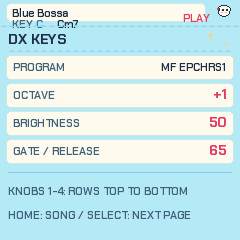
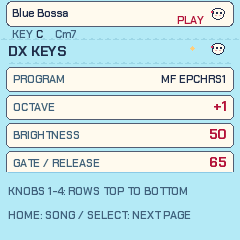
Answer the design review: real edges, a split accent, a mascot on the working screens
Measured against the review, Momo, on cream:
- small type carried the warm accent at 3.9:1. A theme now has two accents: acc stays for
  the 21 px chord, acc_t (#B0123C, 6.7:1 on card, 5.4:1 on the ground) takes every 8 px
  label -- PLAY, EVOLVING, arrangement values, the key and movement pills.
- a card's cream on a pale ground is 1.3:1 and its old rule was 1.26:1, so there was no edge
  at all. The ring is now mix(panel, ink, 12) at 4.8:1: a sticker edge, and the radius does
  the softening -- 14 px on the chord card, 12 px on the others.
- the header card grows to 26 px and the key strip moves onto its own row below it, so
  nothing crosses an edge; the mascot keeps an 8 px right inset.
- the Songbook card drops the duplicated song name (it is in the header), gives the space to
  the mascot at 32 x 28 with a two-line slate bubble, and the chord becomes the page's one
  large mark.
- the pattern strip is nine-pixel beads: cream fill, a 1 px slate ring, the playing bar
  filled in the small accent, so the sixteen-bar structure is visible.
- the boot card: a two-pixel ink outline on the sun, the mascot at 3x standing on the
  horizon, the pale band and the white bar gone.
- the parameter pages get the mascot beside the title and a warm mark on the row the last
  knob touched, so the identity is not only on the boot screen.

Changed region(s): [[0.0, 0.0, 0.9917, 0.7292]]

diff --git a/firmware/src/app/ui.c b/firmware/src/app/ui.c
@@ -453,7 +453,8 @@ static const uint8_t BLACK_KEY[11] = {1, 3, 5, 8, 10, 13, 15, 17, 20, 22, 25};
  * shades (the pad and the chord; the acid; the drone), the drums' colour, and a colour for the sections
  * and freeze. Each layer has a dark tint for shapes at rest. */
 typedef struct {
-    uint16_t bg, panel, line, dim, text, acc, pad, pad_t, acid, acid_t, bass, bass_t, pulse, pulse_t, frost, pluck;
+    uint16_t bg, panel, line, dim, text, acc, pad, pad_t, acid, acid_t, bass, bass_t, pulse, pulse_t, frost, pluck,
+        acc_t;   /* the accent as small text: dark enough for an 8 px glyph on cream (the warm acc is large-text only) */
 } theme_t;
 /* NAIWAN 91's six looks (Global > Theme). One family, not six moods: each is a soft ground, cream
  * surfaces, an ink that clears 7:1 against the ground, and a single warm "now" colour for the playhead
@@ -462,27 +463,27 @@ static const theme_t THEMES[EN_NTHEME] = {
     /* Momo (default): the coast at noon: a sky ground, cream cards, ink navy, strawberry for "now" */
     {RGB(176, 232, 246), RGB(255, 249, 236), RGB(140, 203, 224), RGB(64, 96, 120), RGB(38, 44, 72), RGB(226, 58, 96),
      RGB(232, 106, 138), RGB(146, 50, 76), RGB(32, 158, 134), RGB(18, 96, 82), RGB(198, 122, 36), RGB(120, 70, 18),
-     RGB(255, 206, 120), RGB(170, 126, 52), RGB(34, 124, 190), RGB(96, 204, 224)},
+     RGB(255, 206, 120), RGB(170, 126, 52), RGB(34, 124, 190), RGB(96, 204, 224), RGB(176, 18, 60)},
     /* Sora: the same coast one hour later: a deeper sky, the same cream and ink */
     {RGB(132, 196, 236), RGB(255, 252, 244), RGB(92, 158, 196), RGB(58, 92, 120), RGB(28, 48, 82), RGB(226, 62, 96),
      RGB(58, 120, 196), RGB(28, 72, 124), RGB(26, 150, 140), RGB(14, 92, 86), RGB(206, 110, 48), RGB(126, 62, 22),
-     RGB(255, 214, 140), RGB(176, 140, 64), RGB(20, 104, 176), RGB(72, 186, 216)},
+     RGB(255, 214, 140), RGB(176, 140, 64), RGB(20, 104, 176), RGB(72, 186, 216), RGB(162, 15, 54)},
     /* Matcha: a garden bench: pale green ground, cream cards, the same strawberry */
     {RGB(206, 232, 206), RGB(255, 252, 240), RGB(150, 196, 158), RGB(74, 104, 80), RGB(44, 58, 46), RGB(216, 72, 96),
      RGB(214, 110, 128), RGB(134, 56, 70), RGB(48, 150, 96), RGB(26, 92, 58), RGB(196, 132, 48), RGB(118, 76, 24),
-     RGB(248, 226, 150), RGB(168, 148, 78), RGB(44, 140, 132), RGB(120, 204, 170)},
+     RGB(248, 226, 150), RGB(168, 148, 78), RGB(44, 140, 132), RGB(120, 204, 170), RGB(168, 16, 56)},
     /* Yuzu: late sun: a butter ground, cream cards, deep plum ink */
     {RGB(250, 226, 158), RGB(255, 251, 240), RGB(222, 190, 120), RGB(110, 92, 60), RGB(56, 46, 40), RGB(214, 58, 86),
      RGB(226, 104, 96), RGB(140, 58, 52), RGB(40, 150, 130), RGB(20, 92, 78), RGB(188, 116, 32), RGB(110, 64, 14),
-     RGB(255, 196, 96), RGB(172, 124, 44), RGB(40, 120, 180), RGB(96, 196, 210)},
+     RGB(255, 196, 96), RGB(172, 124, 44), RGB(40, 120, 180), RGB(96, 196, 210), RGB(168, 16, 48)},
     /* Sakura: a blossom in the pocket: blush ground, cream cards, plum ink */
     {RGB(250, 214, 224), RGB(255, 250, 244), RGB(230, 176, 196), RGB(120, 84, 100), RGB(68, 40, 58), RGB(208, 52, 104),
      RGB(224, 96, 132), RGB(138, 48, 72), RGB(34, 150, 130), RGB(16, 90, 78), RGB(196, 120, 52), RGB(118, 68, 26),
-     RGB(255, 212, 150), RGB(170, 132, 72), RGB(46, 124, 180), RGB(110, 200, 214)},
+     RGB(255, 212, 150), RGB(170, 132, 72), RGB(46, 124, 180), RGB(110, 200, 214), RGB(163, 16, 88)},
     /* Yoru: a night beach: the deep ground (the horizon behind the sigil, the mascot in lamplight) */
     {RGB(30, 32, 64), RGB(54, 54, 102), RGB(78, 80, 132), RGB(150, 152, 196), RGB(255, 246, 236), RGB(255, 142, 172),
      RGB(176, 150, 255), RGB(86, 68, 150), RGB(128, 232, 190), RGB(46, 120, 96), RGB(255, 178, 110), RGB(150, 94, 44),
-     RGB(255, 214, 132), RGB(156, 126, 64), RGB(140, 210, 255), RGB(110, 226, 232)},
+     RGB(255, 214, 132), RGB(156, 126, 64), RGB(140, 210, 255), RGB(110, 226, 232), RGB(255, 179, 199)},
 };
 static const theme_t *th = &THEMES[0];
 #define LOOK_SYNTH (th == &THEMES[5])           /* Yoru (the night look) draws its own horizon behind the sigil and lights the mascot */
@@ -492,6 +493,7 @@ static const theme_t *th = &THEMES[0];
 #define K_DIM (th->dim)
 #define K_TEXT (th->text)
 #define K_ACC (th->acc)
+#define K_ACC_TXT (th->acc_t)           /* the same "now", dark enough for small type */
 #define K_PAD (th->pad)
 #define K_PAD_T (th->pad_t)
 #define K_ACID (th->acid)
@@ -4738,9 +4740,9 @@ static void input(void)
 
 /* ------------------------------------------------------------- screen --- */
 /* three bands: the header (28 px), the main area (144), the knobs (68) */
-#define HDR_H 28
-#define MAIN_Y 28
-#define MAIN_H 144
+#define HDR_H 40
+#define MAIN_Y 40
+#define MAIN_H 132
 #define KNB_Y 172
 #define KNB_H 68
 
@@ -4846,17 +4848,19 @@ static uint16_t mix(uint16_t a, uint16_t b, int t)   /* t 0..16: a -> b */
     return (uint16_t)(r << 11 | g << 5 | bl);
 }
 static int q16(float x) { return x <= 0.0f ? 0 : x >= 1.0f ? 16 : (int)(x * 16.0f + 0.5f); }
-/* a card: the panel's cream, one pixel of rule round it. A cream sheet on a pale ground is 1.3:1,
- * so the ring is what makes a card read as a card at arm's length. */
+/* a card: the panel's cream, one pixel of rule round it. Cream on a pale ground is 1.3:1, so the ring
+ * carries the edge (5.5:1 against the ground); at a 12-14 px radius it reads as a sticker, which is
+ * the shape doing the softness instead of a washed-out fill. */
 static void cv_card(int32_t x, int32_t y, int32_t w, int32_t h, int32_t r)
 {
-    cv_round(x, y, w, h, r, mix(K_PANEL, K_LINE, 6));
+    cv_round(x, y, w, h, r, mix(K_PANEL, K_TEXT, 12));
     cv_round(x + 1, y + 1, w - 2, h - 2, r > 1 ? r - 1 : 1, K_PANEL);
 }
 
 static const char *const MASCOT[23];            /* the visualizer's dancer (viz.c) */
 static uint16_t mascot_color(char ch);
 static void draw_nami(int32_t x, int32_t y);
+static void draw_nami_scale(int32_t x, int32_t y, int32_t sc);
 static void draw_sparkle(int32_t x, int32_t y, int s, uint16_t c);
 static void cv_scallop(int32_t x, int32_t y, int32_t w, uint16_t c);
 /* the mascot, one pixel a pixel, on a spring like the big dancer's (viz.c), smaller: a hop on the kick (the head lags, the coils spread
@@ -4952,24 +4956,33 @@ static void draw_header(void)
         if(jh==ui.sig[0])return;
         ui.sig[0]=jh;
         cv_begin(240,HDR_H,K_BG);
-        cv_card(6, 3, 200, 19, 5);                            /* the song, and what it is doing: one cream card */
+        cv_card(6, 1, 228, 26, 6);                            /* the song, and what it is doing */
         cv_text(12,6,&FONT_XS,jam_ui_title(),K_TEXT);
-        cv_text(210-text_w(&FONT_XS,JV(playing,en_playing)?"PLAY":"STOP"),11,&FONT_XS,JV(playing,en_playing)?"PLAY":"STOP",K_ACC);
-        int x=cv_text(12,17,&FONT_XS,"KEY ",K_DIM);x=cv_text(x,17,&FONT_XS,EN_NOTE_NAME[state.key],th->frost);
-        cv_text(x+14,17,&FONT_XS,chord,K_TEXT);
-        cv_scallop(0,25,240,mix(K_BG,K_LINE,9));
-        draw_nami(216,4);cv_blit(0,0);return;
+        {   /* the state, right-aligned in the card and clear of the mascot's eight-pixel inset */
+            const char *st=JV(playing,en_playing)?"PLAY":"STOP";
+            cv_text(204-text_w(&FONT_XS,st),13,&FONT_XS,st,K_ACC_TXT);
+        }
+        draw_nami(210,7);
+        {   /* the key strip: its own row, under the card's edge */
+            int32_t x=cv_text(12,27,&FONT_XS,"KEY ",K_DIM);
+            x=cv_text(x,27,&FONT_XS,EN_NOTE_NAME[state.key],K_TEXT);
+            cv_text(x+12,27,&FONT_XS,chord,K_DIM);
+        }
+        cv_scallop(0,38,240,mix(K_BG,K_LINE,9));
+        cv_blit(0,0);return;
     }
     if(ui.view==V_JAMHELP && !ui.fx_menu && !msg) {
         uint32_t jh=hash(0x4a414d34u,JV(revision,en_jam_revision) | JV(playing,en_playing)<<24);
         if(jh==ui.sig[0])return;
         ui.sig[0]=jh;
         cv_begin(240,HDR_H,K_BG);
-        cv_card(6,3,200,19,5);
-        cv_text(12,5,&FONT_B,jam_ui_title(),K_TEXT);
-        cv_text(210-text_w(&FONT_XS,JV(playing,en_playing)?"PLAY":"STOP"),11,&FONT_XS,JV(playing,en_playing)?"PLAY":"STOP",K_ACC);
-        cv_scallop(0,25,240,mix(K_BG,K_LINE,9));
-        draw_nami(216,4);cv_blit(0,0);return;
+        cv_card(6,1,228,26,6);
+        cv_text(12,6,&FONT_B,jam_ui_title(),K_TEXT);
+        {   const char *st=JV(playing,en_playing)?"PLAY":"STOP";
+            cv_text(204-text_w(&FONT_XS,st),15,&FONT_XS,st,K_ACC_TXT); }
+        draw_nami(210,7);
+        cv_scallop(0,38,240,mix(K_BG,K_LINE,9));
+        cv_blit(0,0);return;
     }
     mascot_step();
     if (ui.frame % 2u)                          /* (the spring moves every frame; the header is redrawn thirty times a second) */
@@ -7086,8 +7099,8 @@ static void draw_main(void)
         ui.sig[1]=h;
         cv_begin(240,MAIN_H,K_BG);
         cv_text(8,3,&FONT_B,row==3 && jam_ui_version()==3?"SYNTH JAM":titles[row],K_TEXT);
-        draw_sparkle(210,7,2,K_PULSE);                            /* the motif's other half: a sparkle by the title */
-        draw_sparkle(226,15,1,mix(K_BG,K_PULSE,9));
+        draw_sparkle(192,8,2,K_PULSE);                            /* a sparkle by the title */
+        draw_nami(210,2);                                         /* and the mascot, so the identity is here too */
         cv_scallop(8,22,224,mix(K_BG,K_LINE,9));
         for(k=0;k<4;k++) {
             int field=jam_ui_row_field(row,k,fields[row][k]),value=jam_ui_option(field);
@@ -7097,8 +7110,10 @@ static void draw_main(void)
             if(field==JAM_MOVE)value=state.movement;
                 if(field==JAM_ENERGY)value=state.energy;
             cv_card(6,y,228,25,5);                                /* a row, a cream pill */
+            if (plat_ms() < ui.touch_until && (int)k == (int)ui.touched)
+                cv_round(2, y + 4, 3, 17, 1, K_ACC_TXT);          /* the row the last knob touched */
             cv_text(13,y+5,&FONT_XS,field==JAM_SYNTH?"MODE":field==JAM_SPACE?"SPACE":field==JAM_KEYS_PROGRAM || field==JAM_BASS_PROGRAM?"PROGRAM":field==JAM_KEYS_OCTAVE || field==JAM_BASS_OCTAVE?"OCTAVE":names[row][k],K_DIM);
-            if(field==JAM_SYNTH)cv_text(226-text_w(&FONT_B,value?"SYNTH":"BAND"),y+4,&FONT_B,value?"SYNTH":"BAND",K_ACC);
+            if(field==JAM_SYNTH)cv_text(226-text_w(&FONT_B,value?"SYNTH":"BAND"),y+4,&FONT_B,value?"SYNTH":"BAND",K_ACC_TXT);
             else if(field==JAM_FORM)cv_text(226-text_w(&FONT_XS,jam_ui_form()),y+5,&FONT_XS,jam_ui_form(),K_TEXT);
             else if(field==JAM_KEYS_PROGRAM || field==JAM_BASS_PROGRAM) {
                 jam_ui_voice_name(field,text);
@@ -7108,8 +7123,8 @@ static void draw_main(void)
             } else if(field==JAM_KEYS_OCTAVE || field==JAM_BASS_OCTAVE) {
                 if(value)text[0]=value<0?'-':'+';
                 itoa_u((unsigned)(value<0?-value:value),text+(value!=0));
-                cv_text(226-text_w(&FONT_B,text),y+3,&FONT_B,text,K_ACC);
-            } else {itoa_u((unsigned)value,text);cv_text(226-text_w(&FONT_B,text),y+3,&FONT_B,text,K_ACC);}
+                cv_text(226-text_w(&FONT_B,text),y+3,&FONT_B,text,K_ACC_TXT);
+            } else {itoa_u((unsigned)value,text);cv_text(226-text_w(&FONT_B,text),y+3,&FONT_B,text,K_ACC_TXT);}
         }
         cv_blit(0,MAIN_Y);return;
     }
@@ -7124,38 +7139,44 @@ static void draw_main(void)
         ui.sig[1]=h;
         jam_ui_name(0,a); jam_ui_name(1,b); root[0]=a[0];root[1]=0;
         cv_begin(240,MAIN_H,K_BG);
-        cv_card(8,2,224,60,6);                                /* the song's card: a cream rounded sheet */
-        cv_text(16,8,&FONT_XS,jam_ui_title(),K_DIM);
-        cv_text(16,18,&FONT_L,root,K_ACC);
-        cv_text(44,26,&FONT_M,a+1,K_TEXT);
-        cv_round(146,18,80,16,5,mix(K_BG,K_LINE,8));          /* "next", a quieter chip of its own */
-        cv_text(152,21,&FONT_XS,"NEXT",K_DIM); cv_text(152,30,&FONT_XS,b,K_PAD);
+        cv_card(8,2,224,60,14);                               /* the song's card: a deep-rounded cream sheet */
+        draw_nami_scale(16,12,2);                             /* the mascot, 32 x 28 */
+        cv_round(54,6,74,34,8,mix(K_PANEL,K_LINE,7));         /* her bubble, two lines of slate */
+        cv_round(55,7,72,32,7,K_PANEL);
+        cv_text(62,10,&FONT_XS,role[JV(section,en_jam_section)%4],K_DIM);
+        cv_text(62,23,&FONT_XS,s.hold?"HELD":"EVOLVING",K_ACC_TXT);
+        cv_text(228-text_w(&FONT_L,a),10,&FONT_L,a,K_ACC);    /* the chord, the page's one large mark */
         if(JV(playing,en_playing)) {                          /* a sparkle while the band plays */
-            const int sx = 198, sy = 46 - (int)(2.0f * fm_fabsf(fm_sinf((float)(plat_ms() % 1600u) * 0.0039f)) * 2.0f);
-            draw_sparkle(sx, sy, 2, K_PULSE);
-            draw_sparkle(178, 12, 1, mix(K_PANEL, K_PULSE, 9));
+            draw_sparkle(200, 50, 2, K_PULSE);
+            draw_sparkle(14, 56, 1, mix(K_PANEL, K_PULSE, 9));
         }
-        {   /* the bar: rounded segments, the one playing in the accent */
+        {   /* under the card: what comes next, and where the bar is */
+            int32_t x=cv_text(12,66,&FONT_XS,"NEXT",K_DIM);
+            cv_text(x+8,66,&FONT_XS,b,K_DIM);
+            {   /* "3 / 8" */
+                char bl[8]; int q=0;
+                itoa_u(JV(bar,en_jam_bar)+1,bl); while(bl[q]) q++;
+                bl[q++]=' '; bl[q++]='/'; bl[q++]=' ';
+                itoa_u(JV(length,en_jam_length),bl+q);
+                cv_text(228-text_w(&FONT_XS,bl),66,&FONT_XS,bl,K_DIM);
+            }
+        }
+        {   /* the pattern: nine-pixel beads, ringed so the structure reads, the one playing filled */
             const int n = JV(length,en_jam_length) ? JV(length,en_jam_length) : 1;
             const int w = 224 / n;
-            for(k=0;k<(unsigned)n;k++) {                              /* cream pill, the bar's fill inset in it */
-                const uint16_t sc = k==JV(bar,en_jam_bar)?K_ACC:k<JV(bar,en_jam_bar)?K_FROST:mix(K_BG,K_LINE,9);
-                cv_round(8+(int)k*w, 70, w-3, 7, 3, K_PANEL);
-                cv_round(9+(int)k*w, 72, w-5, 3, 2, sc);
+            for(k=0;k<(unsigned)n;k++) {
+                cv_round(8+(int)k*w, 78, w-3, 9, 3, K_DIM);
+                cv_round(9+(int)k*w, 79, w-5, 7, 2, k==JV(bar,en_jam_bar)?K_ACC_TXT:K_PANEL);
             }
-            cv_scallop(8, 79, 224, mix(K_BG, K_LINE, 7));
         }
-        itoa_u(JV(bar,en_jam_bar)+1,t); cv_text(8,86,&FONT_XS,t,K_TEXT);
-        cv_text(32,86,&FONT_XS,role[JV(section,en_jam_section)%4],K_DIM);
-        cv_text(160,86,&FONT_XS,s.hold?"HELD":"EVOLVING",K_ACC);
         if(JV(pending,en_jam_pending) || JV(busy,en_jam_busy()) || JV(load,en_jam_load)>=0) {
-            cv_text(8,105,&FONT_XS,(JV(busy,en_jam_busy()) || JV(load,en_jam_load)>=0)?jam_ui_pending_title():jam_ui_form(),K_ACC);
-            itoa_u(JV(length,en_jam_length)-JV(bar,en_jam_bar),t); cv_text(8,122,&FONT_XS,t,K_ACC);
-            cv_text(29,122,&FONT_XS,"BARS TO CHANGE",K_DIM);
+            cv_text(12,94,&FONT_XS,(JV(busy,en_jam_busy()) || JV(load,en_jam_load)>=0)?jam_ui_pending_title():jam_ui_form(),K_ACC_TXT);
+            itoa_u(JV(length,en_jam_length)-JV(bar,en_jam_bar),t); cv_text(12,112,&FONT_XS,t,K_ACC_TXT);
+            cv_text(34,112,&FONT_XS,"BARS TO CHANGE",K_DIM);
         } else {
-            cv_text(8,105,&FONT_XS,"PRESETS: SONG / SEL: DETAILS",K_DIM);
-            itoa_u(s.energy,t);cv_text(8,122,&FONT_XS,"ENERGY",K_DIM);cv_text(61,122,&FONT_XS,t,K_ACC);
-            cv_text(105,122,&FONT_XS,"SAVE WHEN STOPPED",K_DIM);
+            cv_text(12,94,&FONT_XS,"PRESETS: SONG / SEL: DETAILS",K_DIM);
+            itoa_u(s.energy,t);cv_text(12,112,&FONT_XS,"ENERGY",K_DIM);cv_text(70,112,&FONT_XS,t,K_ACC_TXT);
+            cv_text(102,112,&FONT_XS,"SAVE WHEN STOPPED",K_DIM);
         }
         cv_blit(0,MAIN_Y); return;
     }
@@ -7393,10 +7414,10 @@ static void draw_knobs(void)
             int x=8+(int)k*59;
             cv_card(x,20,54,42,6);                            /* a cream pill a knob */
             cv_text(x+7,25,&FONT_XS,names[k],K_DIM);
-            if(k==0) {cv_text(x+7,40,&FONT_B,EN_NOTE_NAME[s.key],K_ACC);cv_text(x+7+text_w(&FONT_B,EN_NOTE_NAME[s.key]),43,&FONT_XS,jam_ui_version()!=3 && s.minor?"m":"",K_ACC);}
+            if(k==0) {cv_text(x+7,40,&FONT_B,EN_NOTE_NAME[s.key],K_ACC_TXT);cv_text(x+7+text_w(&FONT_B,EN_NOTE_NAME[s.key]),43,&FONT_XS,jam_ui_version()!=3 && s.minor?"m":"",K_ACC_TXT);}
             if(k==1) {itoa_u((unsigned)proj.par[P_TEMPO],t);cv_text(x+7,40,&FONT_B,t,K_TEXT);}
             if(k==2) {itoa_u(s.bars,t);cv_text(x+7,40,&FONT_B,t,K_TEXT);}
-            if(k==3) cv_text(x+7,44,&FONT_XS,jam_ui_version()==3?jp_chord_movement(s.movement):movement[s.movement],K_ACC);
+            if(k==3) cv_text(x+7,44,&FONT_XS,jam_ui_version()==3?jp_chord_movement(s.movement):movement[s.movement],K_ACC_TXT);
         }
         cv_blit(0,KNB_Y);return;
     }
@@ -8482,6 +8503,16 @@ static uint16_t nami_color(char ch)
 }
 /* Nami, sixteen pixels wide: the hop lifts her by up to three pixels, the head lag (hm.dh) opens a
  * pixel of neck on the way up and squashes her on the way down. */
+static void draw_nami_scale(int32_t x, int32_t y, int32_t sc)
+{
+    int r, c;
+    for (r = 0; r < 14; r++)
+        for (c = 0; NAMI[r][c]; c++) {
+            const uint16_t col = nami_color(NAMI[r][c]);
+            if (col)
+                cv_rect(x + c * sc, y + r * sc, sc, sc, col);
+        }
+}
 static void draw_nami(int32_t x, int32_t y)
 {
     int r, c;
@@ -8533,7 +8564,8 @@ static void cv_circle(int32_t cx, int32_t cy, int32_t r, uint16_t c)
 static void draw_sun_face(int32_t cx, int32_t cy, int32_t r)
 {
     const uint16_t ray = mix(K_BG, K_PULSE, 6), face = RGB(38, 44, 72);
-    cv_circle(cx, cy, r + 3, ray);
+    cv_circle(cx, cy, r + 4, ray);
+    cv_circle(cx, cy, r + 2, RGB(32, 44, 74));       /* a two-pixel ink edge, so the sun is a drawing */
     cv_circle(cx, cy, r, K_PULSE);
     cv_circle(cx - r / 3, cy - r / 4, 2, face);      /* two dot eyes */
     cv_circle(cx + r / 3, cy - r / 4, 2, face);
@@ -8558,14 +8590,12 @@ static void draw_splash(uint32_t t)
         if (q > 0.25f)
             draw_sparkle(24 + (i * 43) % 168, 10 + (i * 29) % 46, 1 + (int)(q * 2.0f), i & 1 ? RGB(255, 255, 255) : K_PULSE);
     }
-    for (i = 0; i < 3; i++) {                        /* the sea: three scallop bands, pale to deep */
-        const int32_t y = 68 + i * 8;
-        cv_rect(0, y, 240, 8, mix(K_PULSE, K_FROST, 4 + i * 5));
-        cv_scallop(0, y, 240, mix(K_PANEL, K_FROST, 3 + i * 4));
-    }
-    cv_rect(0, 92, 240, 16, K_PANEL);                /* the sand */
-    cv_scallop(0, 90, 240, mix(K_PANEL, K_FROST, 2));
-    draw_nami(198, 78);
+    cv_rect(0, 68, 240, 40, K_FROST);                /* the sea: two blues, one crest */
+    cv_rect(0, 68, 240, 10, mix(K_PANEL, K_FROST, 4));
+    cv_scallop(0, 66, 240, mix(K_FROST, K_PANEL, 5));
+    for (i = 0; i < 3; i++)
+        cv_rect(0, 84 + i * 8, 240, 1, mix(K_FROST, K_BG, 2));
+    draw_nami_scale(96, 26, 3);                      /* standing on the horizon */
     cv_blit(0, 0);
 
     cv_begin(240, 132, K_BG);                        /* the name, and what is next */

diff --git a/README.md b/README.md
@@ -28,7 +28,14 @@ cream cards with a one-pixel rule, an ink that clears 7:1 against the ground, an
 | ground | `#AEE7F5` | `#84C4EC` | `#CEE8CE` | `#FAE29E` | `#FAD6E0` | `#1E2040` |
 | card | `#FFF9EC` | `#FFFCF4` | `#FFFCF0` | `#FFFAF0` | `#FFFAF4` | `#36366A` |
 | ink | `#262C48` | `#1C3052` | `#2C3A2E` | `#382E28` | `#44283A` | `#FFF6EC` |
-| now | `#E23A60` | `#E23E60` | `#D84860` | `#D63A56` | `#D03468` | `#FF8EAC` |
+| now (large) | `#E23A60` | `#E23E60` | `#D84860` | `#D63A56` | `#D03468` | `#FF8EAC` |
+| now (small type) | `#B0123C` | `#A20F36` | `#A81038` | `#A81030` | `#A31058` | `#FFB3C7` |
+| card edge | `#5C5F71` | `#5C5F71` | `#5C5F71` | `#5C5F71` | `#5C5F71` | `#5C5F71` |
+
+Measured on the Momo look: ink on card **13.3:1**, the small "now" **6.7:1** on card and **5.4:1** on
+the ground, the card's edge **4.8:1** against the ground, the sea **3.4:1**, and the large chord's warm
+red **3.95:1** on card (large text only — it is never used at 8 px). A card is cream with a one-pixel
+edge at a 12–14 px radius: the shape carries the softness, not a washed-out fill.
 
 Two marks carry the identity, both drawn from integer geometry so they never alias:
 
